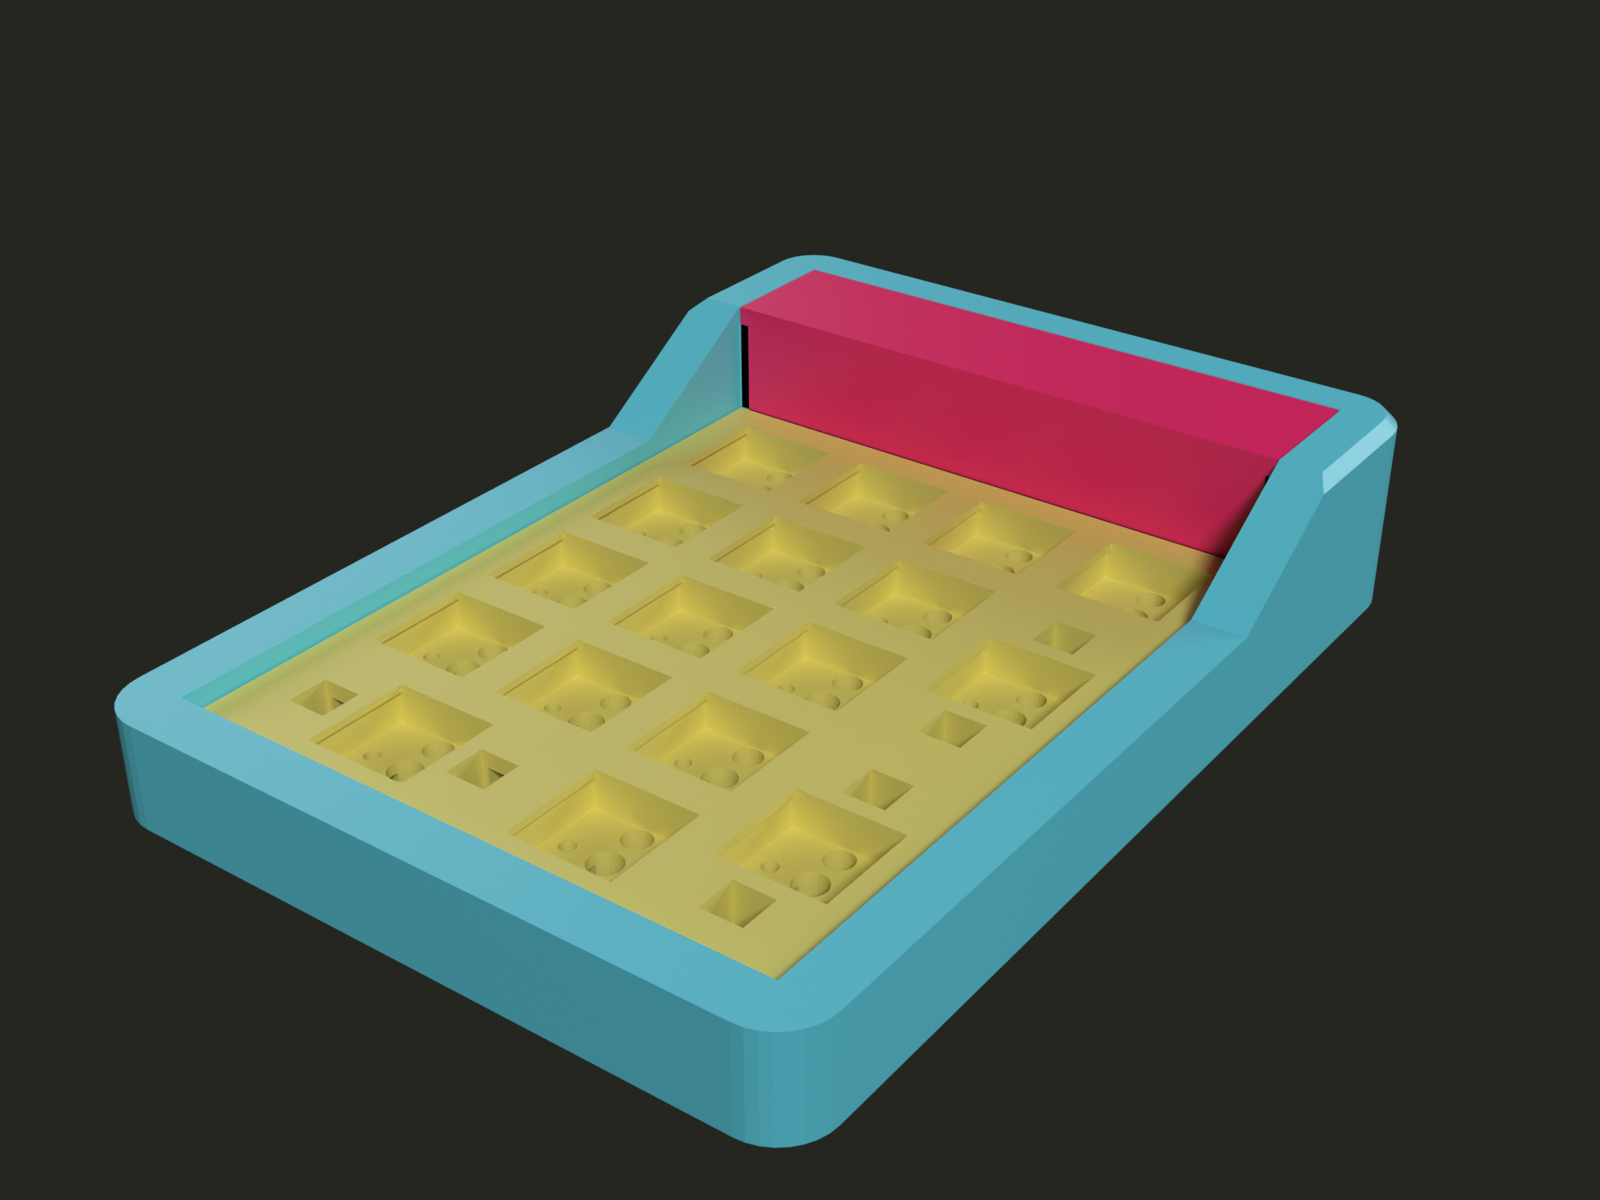
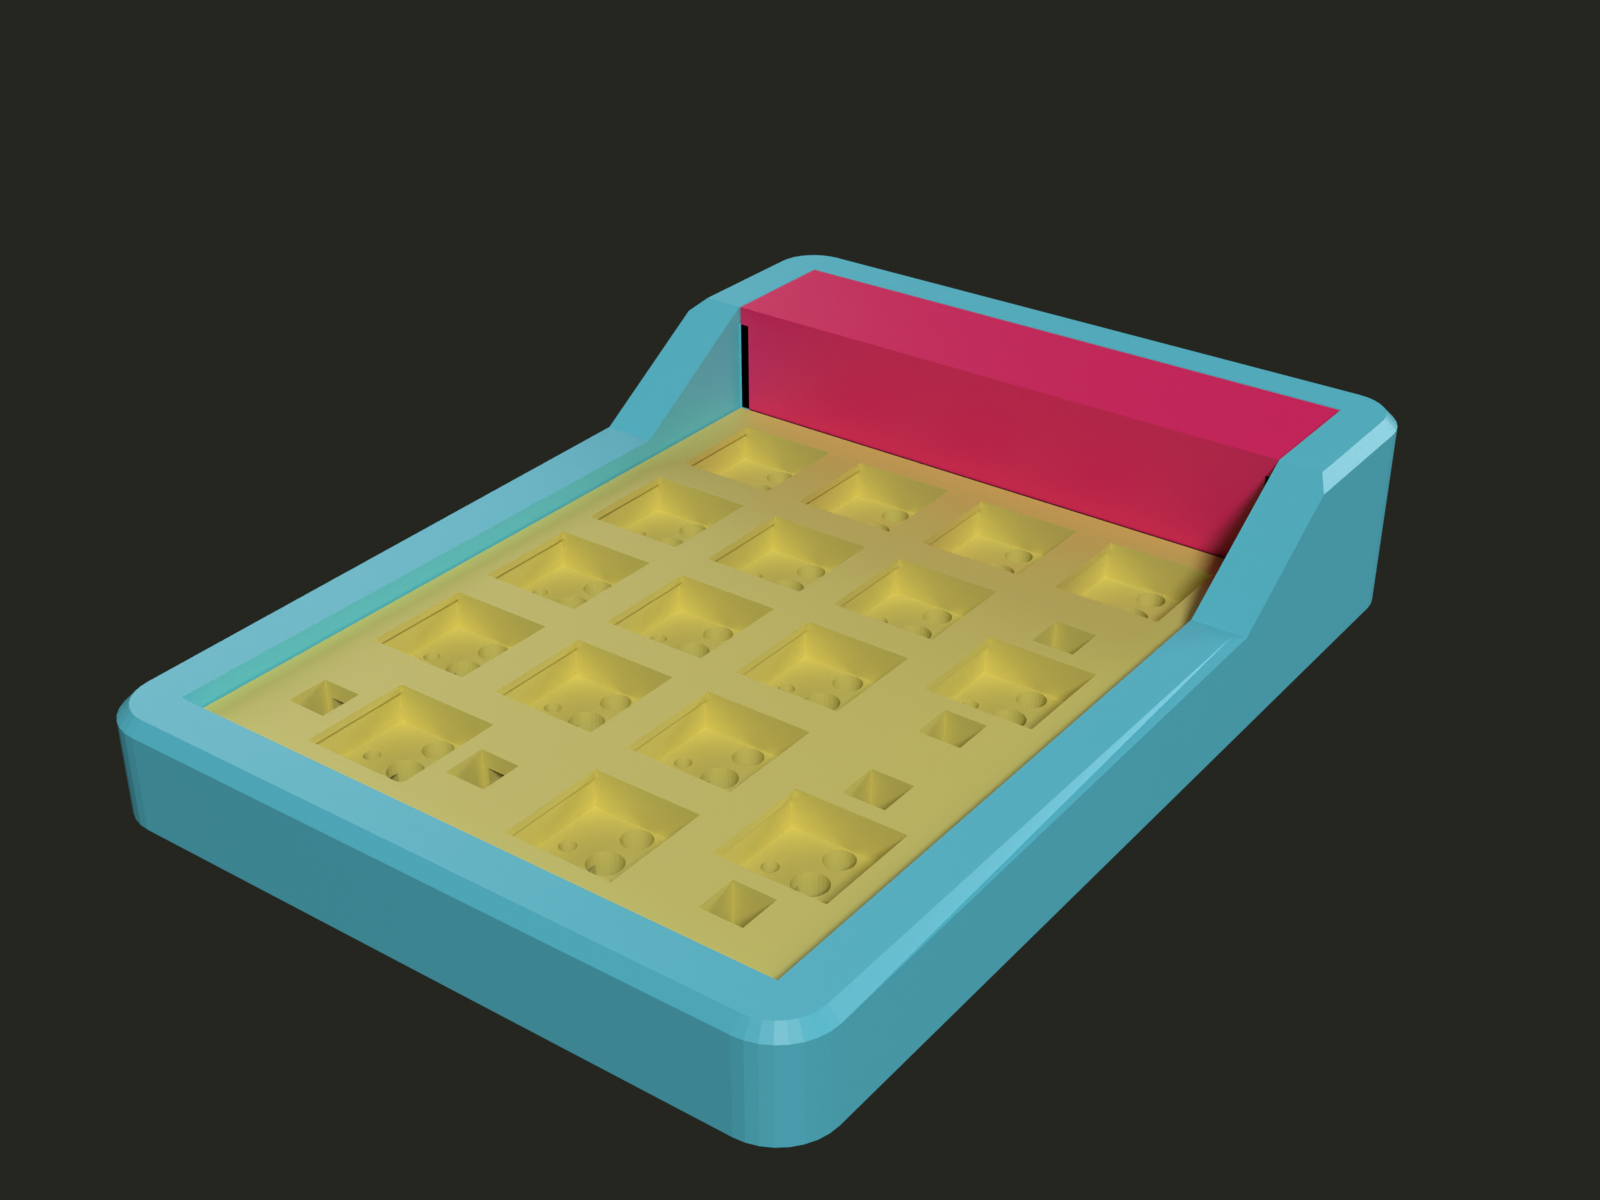
nis

diff --git a/blender/keyboards/case.py b/blender/keyboards/case.py
@@ -282,6 +282,68 @@ def _add_case_shell(bm, metrics):
     _add_loft(bm, rings)
 
 
+def _bevel_lower_rim(case, metrics):
+    """Chamfer the rim exposed by a raised-compartment cut.
+
+    The shell is built with its top chamfer at ``metrics.height``.  The ramp
+    cutter then removes the southern part down to ``CASE_HEIGHT``, so that
+    new top rim has square edges.  Bevel only the outer rim edges at that
+    height, after all cuts, leaving the raised compartment and the internal
+    pockets untouched.
+    """
+
+    if metrics.height <= CASE_HEIGHT:
+        return
+
+    centre_x = (metrics.west + metrics.east) / 2.0
+    centre_y = (metrics.south + metrics.north) / 2.0
+    half_w = (metrics.east - metrics.west) / 2.0
+    half_d = (metrics.north - metrics.south) / 2.0
+    radius = CORNER_RADIUS
+    outer_tolerance = 0.01
+
+    def on_outer_plan(vertex):
+        qx = abs(vertex.co.x - centre_x) - (half_w - radius)
+        qy = abs(vertex.co.y - centre_y) - (half_d - radius)
+        outside = (
+            math.hypot(max(qx, 0.0), max(qy, 0.0))
+            + min(max(qx, qy), 0.0)
+            - radius
+        )
+        return abs(outside) <= outer_tolerance
+
+    bm = bmesh.new()
+    bm.from_mesh(case.data)
+
+    rim_edges = []
+    for edge in bm.edges:
+        if len(edge.link_faces) != 2:
+            continue
+        if any(abs(vertex.co.z - CASE_HEIGHT) > 1e-4 for vertex in edge.verts):
+            continue
+        if not all(on_outer_plan(vertex) for vertex in edge.verts):
+            continue
+        if not any(abs(face.normal.z) < 0.1 for face in edge.link_faces):
+            continue
+        rim_edges.append(edge)
+
+    if rim_edges:
+        bmesh.ops.bevel(
+            bm,
+            geom=rim_edges,
+            offset=CHAMFER,
+            offset_type="OFFSET",
+            segments=1,
+            profile=0.5,
+            affect="EDGES",
+            clamp_overlap=True,
+        )
+
+    bm.to_mesh(case.data)
+    bm.free()
+    case.data.update()
+
+
 # --------------------------------------------------------------------------
 # Cutters
 # --------------------------------------------------------------------------
@@ -485,6 +547,8 @@ def build_case(
 
     for cutter in (_usb_port_cutter(metrics), _usb_bevel_cutter(metrics)):
         mesh.difference(case, cutter)
+
+    _bevel_lower_rim(case, metrics)
 
     mesh.check_mesh(name, case, strict=True)
     return case

diff --git a/blender/AGENTS.md b/blender/AGENTS.md
@@ -343,6 +343,13 @@ Key dimensions:
 - default compartment/cover top 27.5 mm; rim 15 mm; plate top 12.5 mm,
 - cover front wall 2.5 mm thick and 15 mm tall.
 
+When the compartment is raised, the outer shell gets its normal chamfer at the
+raised height, then the ramp cutter lowers the key-side section to the 15 mm rim.
+That newly exposed lower rim is chamfered **after** all cuts in
+`_bevel_lower_rim`, so the key-side rim keeps the same 1.5 mm top bevel as the
+raised compartment. This is a targeted outer-rim edge bevel, not a global bevel
+of the case.
+
 ### USB-C opening
 
 The USB-C cutout is on the north wall, 12 mm from the bay's inner west wall:
